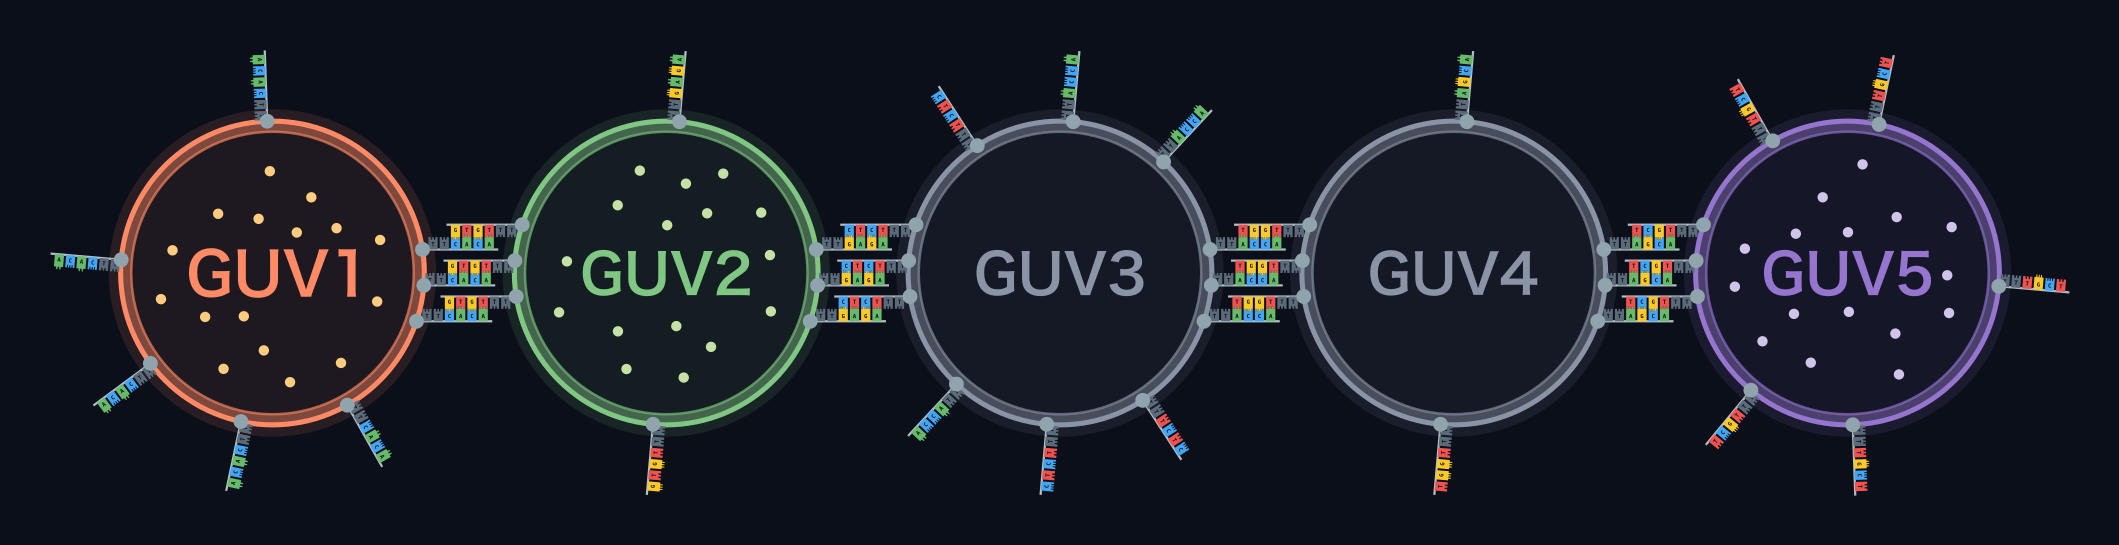
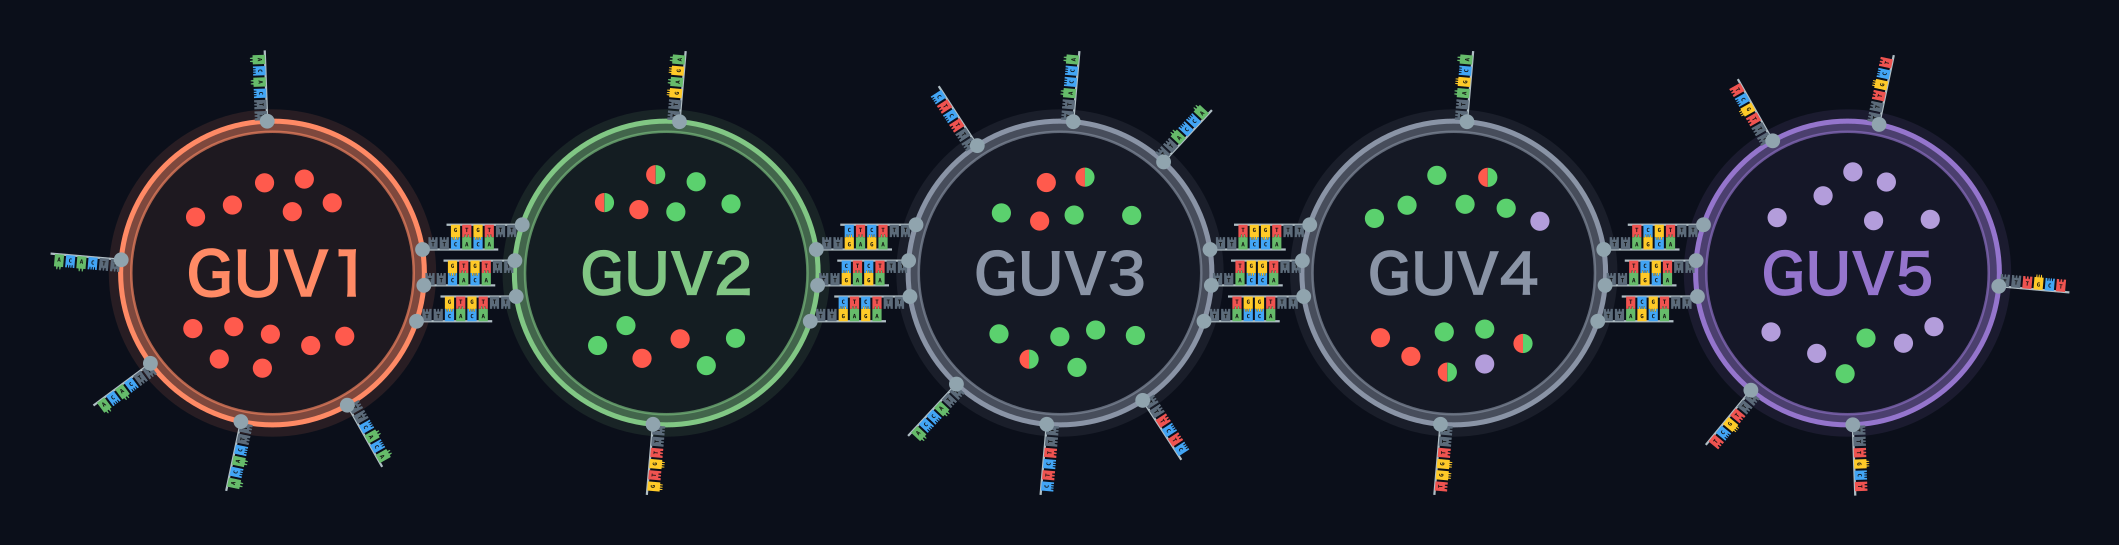
Future (local draft): text on the left and figures on the right; Fig. 2 stacked (line above, branch below) with contents drawn as red/green/purple and half-red half-green dots

diff --git a/future.html b/future.html
@@ -54,38 +54,42 @@
             <h2 class="section-title">Extension to Branched Networks</h2>
             <div class="content-space">
                 <div class="section-text">
-                    <p>
-                        In this project, we proposed a network that connects three GUVs in a line: GUV1–GUV2–GUV3.
-                        As a next step, we plan to extend this linear network to a branched network.
-                    </p>
+                    <div class="study-row">
+                        <div class="study-text">
+                            <p>
+                                In this project, we proposed a network that connects three GUVs in a line: GUV1–GUV2–GUV3.
+                                As a next step, we plan to extend this linear network to a branched network.
+                            </p>
 
-                    <figure class="fig-block fig-small">
+                            <p>
+                                For example, we consider connecting a fourth GUV (GUV4) to the middle GUV2, in addition to GUV1 and GUV3.
+                                GUV2 then becomes a branch point with three connections: GUV1–GUV2, GUV2–GUV3 and GUV2–GUV4.
+                                Because each connection in ALiGN is designed independently with its own DNA sequence, we expect that adding a new pair of sequences will add a new branch without disturbing the existing connections.
+                            </p>
+
+                            <p>
+                                Contents released from one GUV pass through the branch point and reach two GUVs in different directions.
+                                In this way, contents can be moved in various directions, just as cells send signals to many partners.
+                            </p>
+                        </div>
+                        <figure>
                         <img src="images/future-branched-network-v6.png" alt="Six GUVs connected through DNA: GUV1, GUV3 and GUV4 attach to GUV2, and GUV5 and GUV6 attach to GUV4">
                         <figcaption><strong>Fig. 1 An example of a branched network: six GUVs connected through DNA.</strong> GUV2 and GUV4 each connect to three GUVs, forming branch points.</figcaption>
                     </figure>
+                    </div>
 
-                    <p>
-                        For example, we consider connecting a fourth GUV (GUV4) to the middle GUV2, in addition to GUV1 and GUV3.
-                        GUV2 then becomes a branch point with three connections: GUV1–GUV2, GUV2–GUV3 and GUV2–GUV4.
-                        Because each connection in ALiGN is designed independently with its own DNA sequence, we expect that adding a new pair of sequences will add a new branch without disturbing the existing connections.
-                    </p>
-
-                    <p>
-                        Contents released from one GUV pass through the branch point and reach two GUVs in different directions.
-                        In this way, contents can be moved in various directions, just as cells send signals to many partners.
-                    </p>
-
-                    <p>
-                        Branching increases the number of partners that one GUV can have. In a line, a GUV has at most two partners, so it can receive from one side and pass on to the other side. At a branch point, a GUV can have three or more partners. This makes it easier to carry out convergent reactions, in which two parts of a molecule are made separately, joined, and then processed further. In a line (Fig. 2B), the contents of GUV1 have to pass through GUV2 to reach GUV3, so GUV3 is expected to receive more of B, from GUV2, than of A, from GUV1, and A already mixes with B in GUV2. In a branched network (Fig. 2A), GUV1 and GUV2 are both connected directly to the empty GUV3, so A from GUV1 and B from GUV2 are expected to reach GUV3 in similar amounts and mix there evenly. The product C is then passed on to the empty GUV4, where it reacts with D from GUV5. A branch point can also pass one product to two GUVs for two different reactions.
-                    </p>
-
-                    <figure class="fig-full">
-                        <div class="media-row" style="align-items:center;">
-                            <img src="images/future-convergent-branch-v1.png" alt="(A) A branched network: GUV1 (red, containing A) and GUV2 (green, containing B) are both connected to the empty GUV3; GUV3 is connected to the empty GUV4, which is connected to GUV5 (purple, containing D).">
-                            <img src="images/future-convergent-line-v1.png" alt="(B) The same GUVs in a line: GUV1, GUV2, the empty GUV3, the empty GUV4 and GUV5 are connected in this order.">
+                    <div class="study-row">
+                        <div class="study-text">
+                            <p>
+                                Branching increases the number of partners that one GUV can have. In a line, a GUV has at most two partners, so it can receive from one side and pass on to the other side. At a branch point, a GUV can have three or more partners. This makes it easier to carry out convergent reactions, in which two parts of a molecule are made separately, joined, and then processed further. Here, the red contents of GUV1 and the green contents of GUV2 react first, and the product then mixes with the purple contents of GUV5. In a line (Fig. 2A), the red contents of GUV1 have to pass through GUV2 to reach GUV3, so GUV3 is expected to receive more green contents than red contents, and the red contents already mix with the green ones in GUV2. In a branched network (Fig. 2B), GUV1 and GUV2 are both connected directly to GUV3, so the red and green contents are expected to reach GUV3 in similar amounts and mix there evenly. The product is then passed on to GUV4, where it mixes with the purple contents. A branch point can also pass one product to two GUVs for two different reactions.
+                            </p>
                         </div>
-                        <figcaption><strong>Fig. 2 Making C from A and B, and then reacting C with D, in a branched network (A) and in a line (B).</strong> GUV1 contains A, GUV2 contains B, and GUV5 contains D. GUV3 and GUV4 are empty places for the reactions.</figcaption>
-                    </figure>
+                        <figure>
+                            <img src="images/future-convergent-line-v1.png" alt="(A) Five GUVs in a line, GUV1 (red) to GUV5 (purple). GUV1 contains red dots and GUV2 contains mostly green dots with some red. GUV3 and GUV4 contain mostly green dots with a few red dots and a few half-red half-green dots, and GUV5 contains mostly purple dots.">
+                            <img src="images/future-convergent-branch-v1.png" alt="(B) A branched network: GUV1 (red) and GUV2 (green) are both connected to GUV3, which is connected to GUV4, which is connected to GUV5 (purple). GUV3 contains mostly half-red half-green dots, and GUV4 contains half-red half-green dots and purple dots.">
+                            <figcaption><strong>Fig. 2 Reacting the red and green contents and then mixing the product with the purple contents, in a line (A) and in a branched network (B).</strong> Red, green and purple dots are the contents of GUV1, GUV2 and GUV5. A half-red, half-green dot is the product of the reaction between the red and green contents. GUV3 and GUV4 are the places where the contents meet.</figcaption>
+                        </figure>
+                    </div>
 
                     <p>
                         All the pores between connected GUVs are open, so contents released from one GUV spread in every direction.
